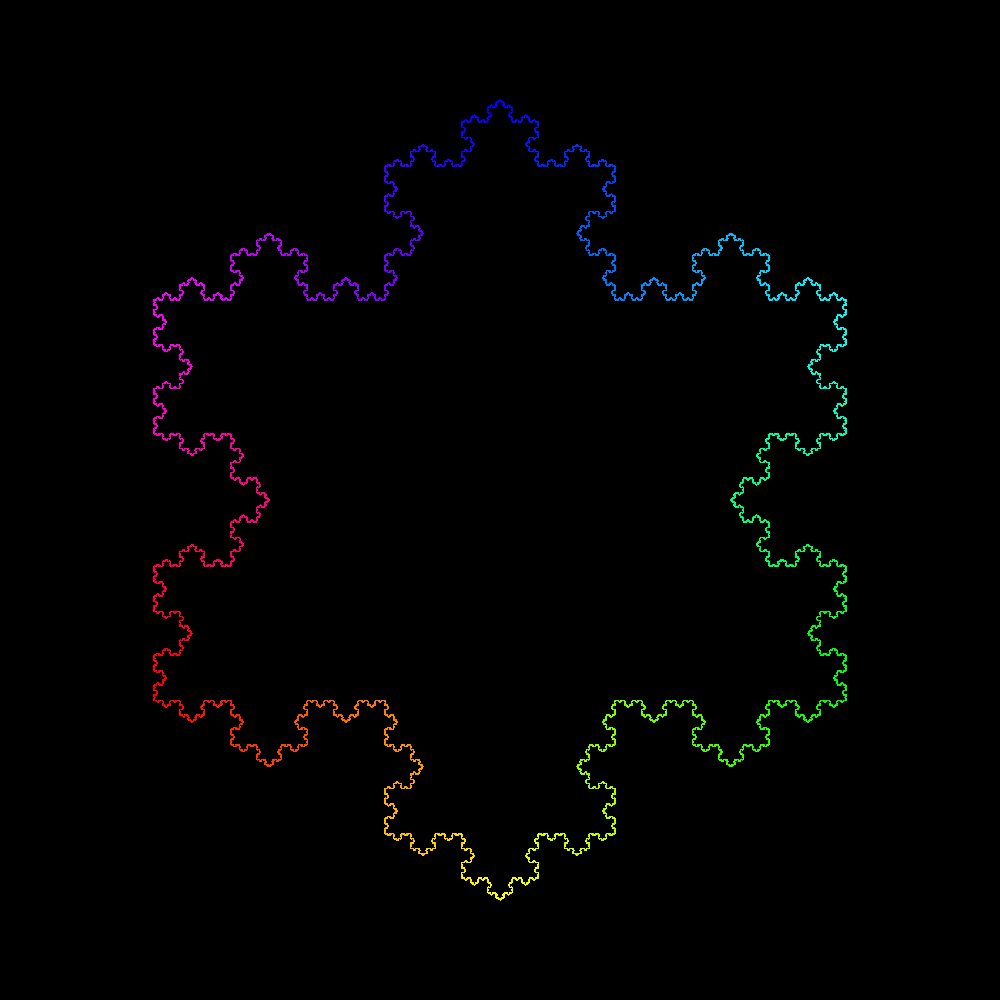
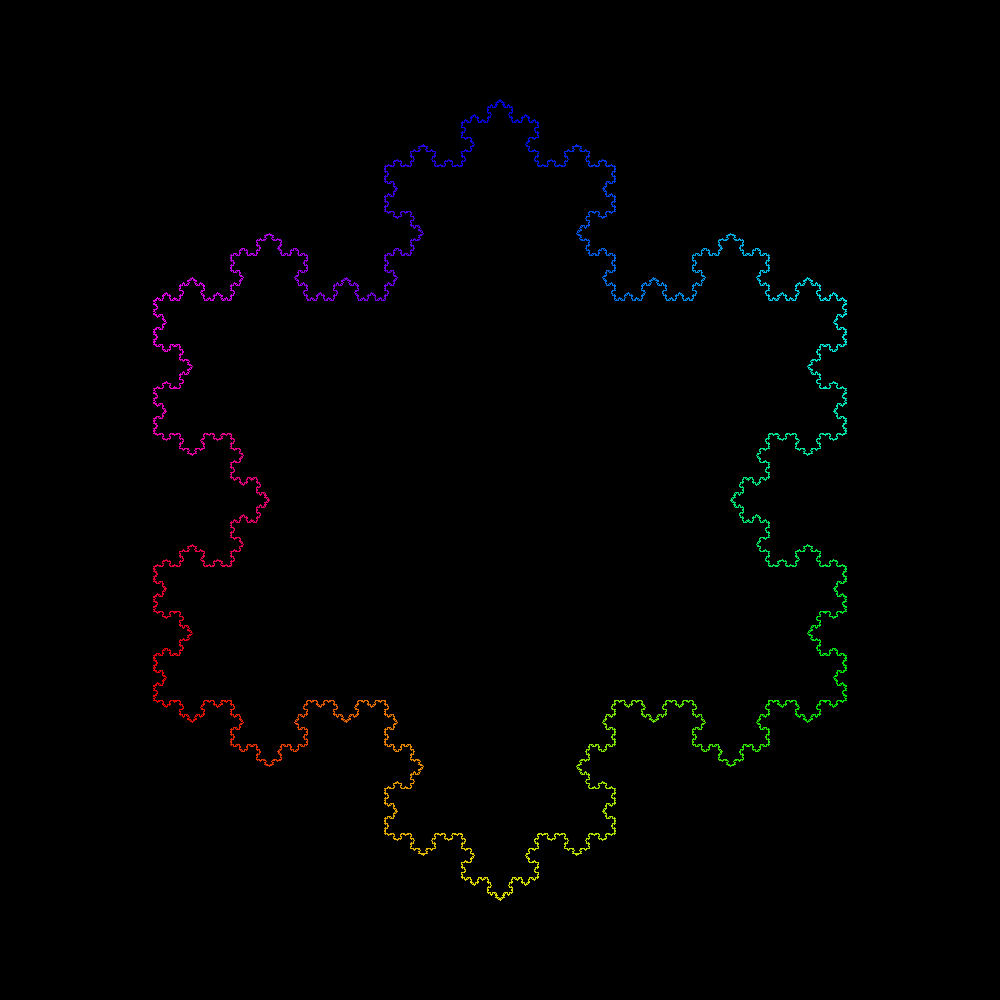
Add new screenshot code and fix some depths

diff --git a/fractals.py b/fractals.py
@@ -46,7 +46,7 @@ sierpinski = LSystemFractal(
     {"F": "F+G-F-G+F",
      "G": "GG"},
     lambda t, d: standard_rules(t, d, 120),
-    10)
+    9)
 
 dragon = LSystemFractal(
     "The Dragon Curve",
@@ -81,7 +81,7 @@ levy_c = LSystemFractal(
     {"F": "+F--F+"},
     lambda t, d: standard_rules(t, d, 45, additions=
                 {"0": lambda: nodraw(t.jump(0.25, 0.25))}),
-    18)
+    16)
 
 hilbert = LSystemFractal(
     "Hilbert's Space-Filling Curve",
@@ -108,7 +108,7 @@ koch = LSystemFractal(
     {"F": "F-F++F-F"},
     lambda t, d: standard_rules(t, d, 60, additions=
             {"0": lambda: nodraw(t.jump(0.5 * (1 - 3 / (2 * sqrt(3))), 0.25))}),
-    8)
+    6)
 
 koch_square = LSystemFractal(
     "Square Koch Curve",

diff --git a/README.md b/README.md
@@ -32,12 +32,12 @@ the [video tag](https://github.com/goedel-gang/lsystems/tree/video).
 
 Here are some screenshots:
 
-![screenshot](https://github.com/goedel-gang/lsystems/blob/master/screenshots/sierpinski.png)
-![screenshot](https://github.com/goedel-gang/lsystems/blob/master/screenshots/dragon.png)
-![screenshot](https://github.com/goedel-gang/lsystems/blob/master/screenshots/fern.png)
-![screenshot](https://github.com/goedel-gang/lsystems/blob/master/screenshots/levyC.png)
-![screenshot](https://github.com/goedel-gang/lsystems/blob/master/screenshots/hilbert.png)
-![screenshot](https://github.com/goedel-gang/lsystems/blob/master/screenshots/sierp_hex.png)
+![screenshot](https://github.com/goedel-gang/lsystems/blob/master/screenshots/sierpinskis_gasket.png)
+![screenshot](https://github.com/goedel-gang/lsystems/blob/master/screenshots/the_dragon_curve.png)
+![screenshot](https://github.com/goedel-gang/lsystems/blob/master/screenshots/a_lindenmayer_fern.png)
+![screenshot](https://github.com/goedel-gang/lsystems/blob/master/screenshots/the_levy_c_curve.png)
+![screenshot](https://github.com/goedel-gang/lsystems/blob/master/screenshots/hilberts_spacefilling_curve.png)
+![screenshot](https://github.com/goedel-gang/lsystems/blob/master/screenshots/sierpinskis_gasket_hexagonal_variant.png)
 ![screenshot](https://github.com/goedel-gang/lsystems/blob/master/screenshots/koch_snowflake.png)
-![screenshot](https://github.com/goedel-gang/lsystems/blob/master/screenshots/koch_square.png)
+![screenshot](https://github.com/goedel-gang/lsystems/blob/master/screenshots/square_koch_curve.png)
 ![screenshot](https://github.com/goedel-gang/lsystems/blob/master/screenshots/binary_tree.png)
